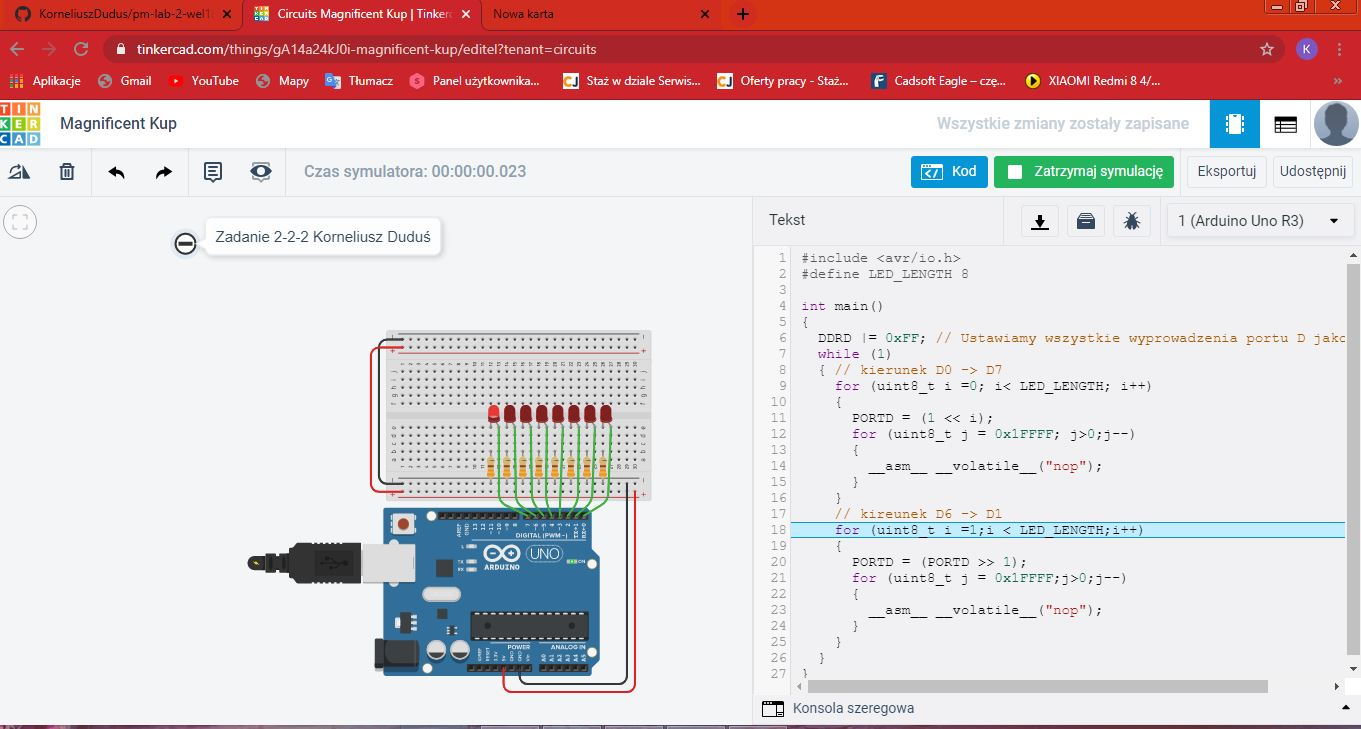
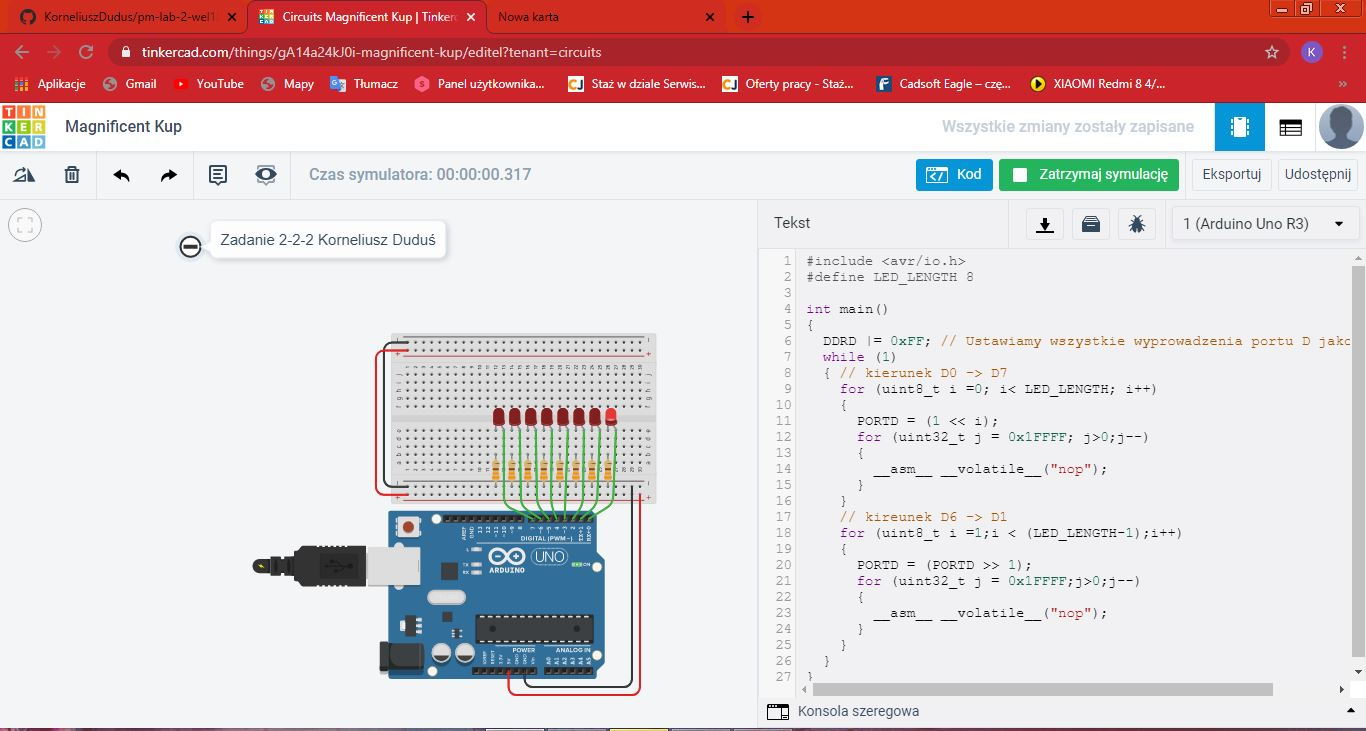
wykonano zadanie 2.2.2 - linijka świetlna D0...D7

diff --git a/zadanie-2-2/src/main.cpp b/zadanie-2-2/src/main.cpp
@@ -9,16 +9,16 @@ int main()
     for (uint8_t i =0; i< LED_LENGTH; i++)
     {
       PORTD = (1 << i);
-      for (uint8_t j = 0x1FFFF; j>0;j--)
+      for (uint32_t j = 0x1FFFF; j>0;j--)
       {
         __asm__ __volatile__("nop");
       }
     }
     // kireunek D6 -> D1
-    for (uint8_t i =1;i < LED_LENGTH;i++)
+    for (uint8_t i =1;i < (LED_LENGTH-1);i++)
     {
       PORTD = (PORTD >> 1);
-      for (uint8_t j = 0x1FFFF;j>0;j--)
+      for (uint32_t j = 0x1FFFF;j>0;j--)
       {
         __asm__ __volatile__("nop");
       }
